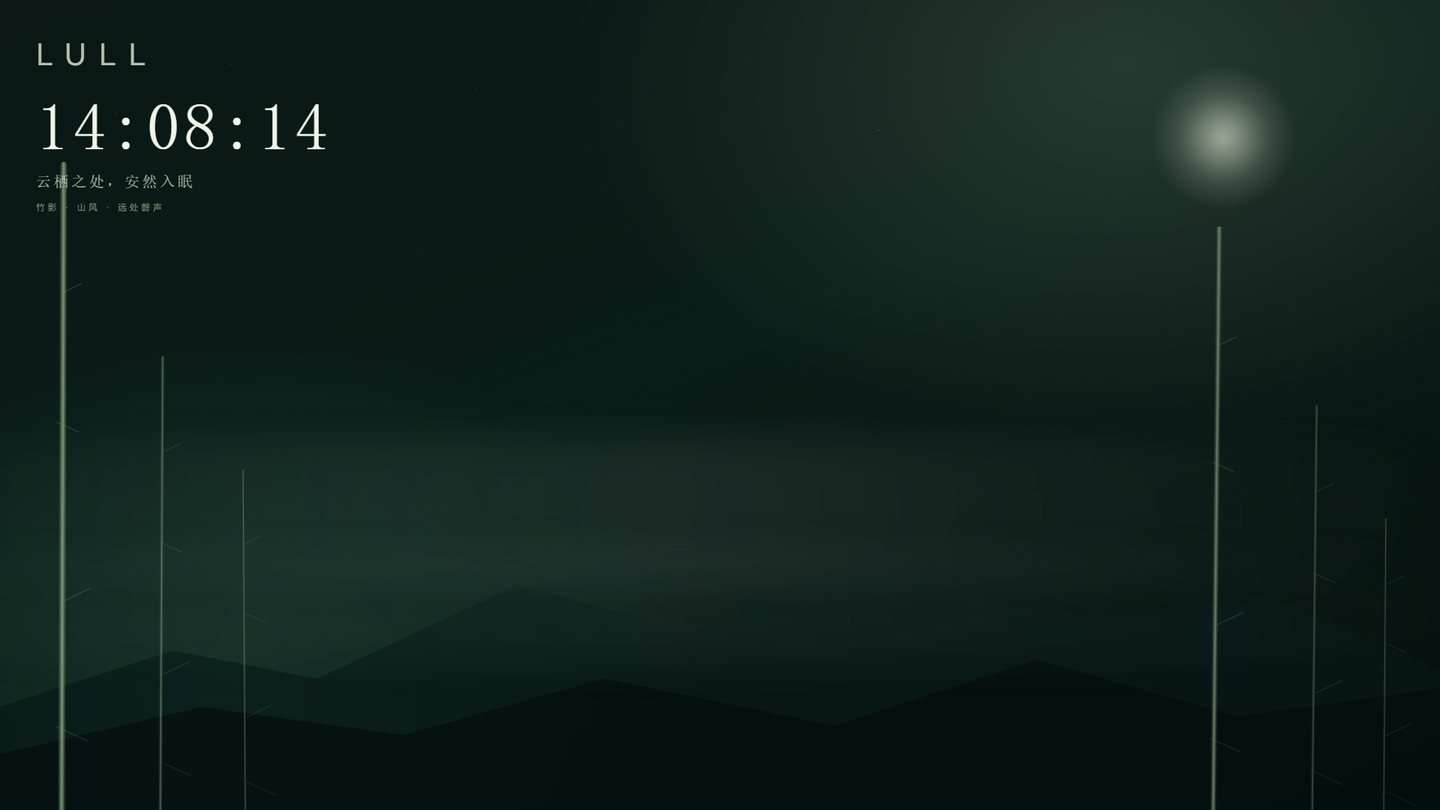
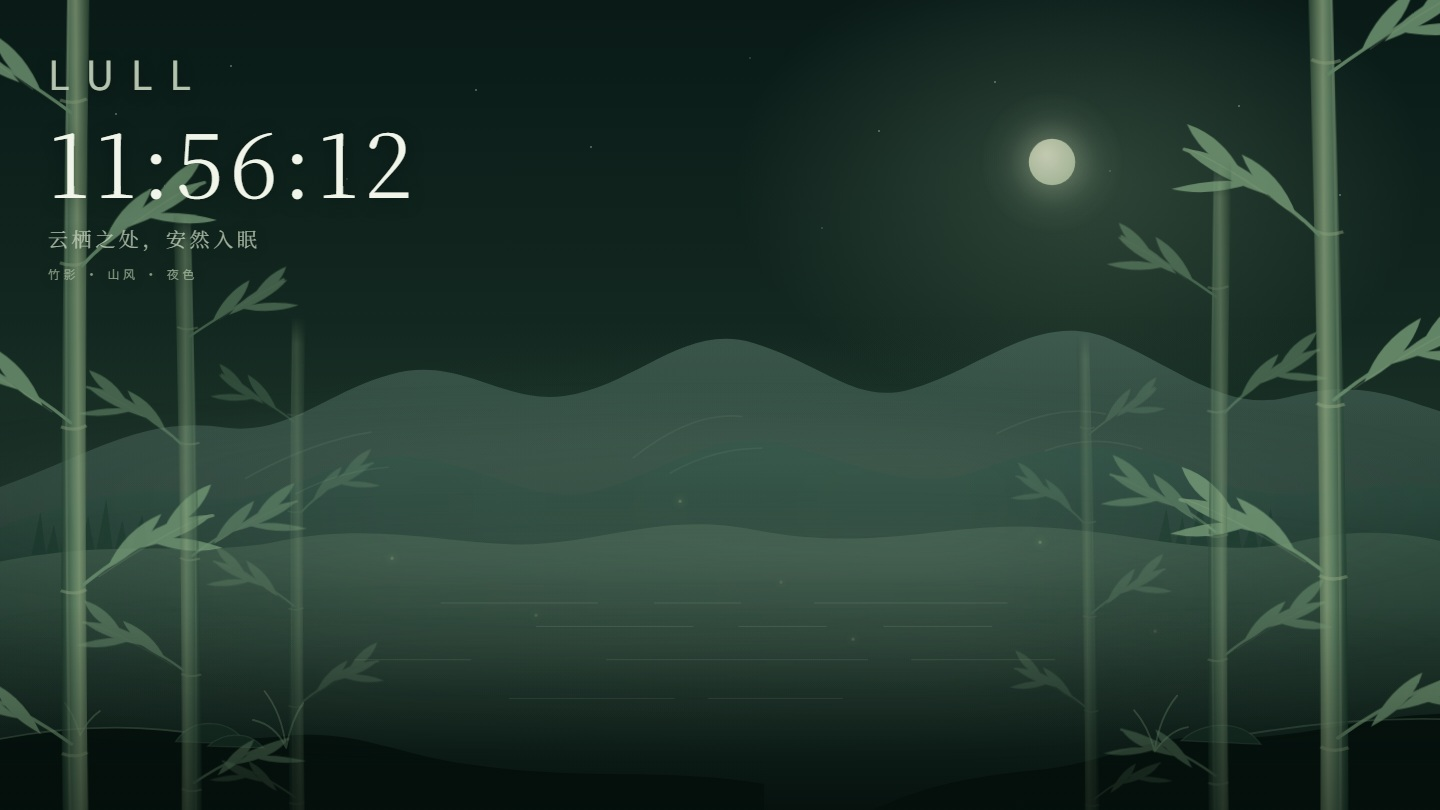
docs: 更新竹影场景预览文档与图片说明
新增预览说明文档，同步更新中英文 README 与网站组件的场景描述
删除废弃的设置窗口截图，统一场景图片为 16:9 比例

diff --git a/website/src/components/site/HomeHero.tsx b/website/src/components/site/HomeHero.tsx
@@ -31,8 +31,8 @@ export default function HomeHero({ version }: { version: string }) {
               <span className="inline-flex items-center gap-1.5" aria-hidden="true"><span className="size-1.5 rounded-full bg-green/70"/><span className="size-1.5 rounded-full bg-green/40"/><span className="size-1.5 rounded-full bg-green/20"/></span>
               <span>YOUR DESKTOP, REIMAGINED</span><span>01 / 03</span>
             </div>
-            <img className="aspect-video w-full object-cover" src={asset("images/scene-bamboo.jpg")} alt="Lull 官方竹影动态壁纸实机画面" width={1440} height={810} fetchPriority="high" />
-            <div className="flex items-center justify-between gap-3 px-4 py-3 text-[0.7rem] text-muted"><span>竹影 · 官方壁纸实机画面</span><span className="font-mono">LULL / SCENE 01</span></div>
+            <img className="aspect-video w-full object-cover" src={asset("images/scene-bamboo.jpg")} alt="竹影场景渲染：月下竹林、远山、水面薄雾与萤火虫" width={1440} height={810} fetchPriority="high" />
+            <div className="flex items-center justify-between gap-3 px-4 py-3 text-[0.7rem] text-muted"><span>竹影 · 当前场景渲染</span><span className="font-mono">LULL / SCENE 01</span></div>
           </div>
           <div className="absolute right-[-1rem] bottom-0 w-[42%] overflow-hidden rounded-card border border-line-strong bg-ink-1 shadow-soft max-[480px]:right-0 max-[480px]:w-[46%]">
             <img className="aspect-[1.7] w-full object-cover" src={asset("images/desktop-world-concept.svg")} alt="漂浮岛屿桌面游戏概念示意" width={1000} height={700} />

diff --git a/website/src/components/site/Preview.tsx b/website/src/components/site/Preview.tsx
@@ -7,8 +7,6 @@ interface PreviewProps {
   alt: string;
   captionLeft: string;
   captionRight: string;
-  /** 设置窗口截图是 16:10，不要按 16:9 裁 */
-  ui?: boolean;
   /** 首屏图给高优先级 */
   priority?: boolean;
   className?: string;
@@ -16,16 +14,16 @@ interface PreviewProps {
 
 /**
  * 桌面截图的相框（原 `.preview` / `.preview__frame`）：
- * 16:9 或 16:10 的容器 + 一层自上而下的薄雾，让截图和页面底色衔接。
+ * 16:9 的容器 + 一层自上而下的薄雾，让场景画面和页面底色衔接。
  */
-export default function Preview({ file, alt, captionLeft, captionRight, ui, priority, className }: PreviewProps) {
+export default function Preview({ file, alt, captionLeft, captionRight, priority, className }: PreviewProps) {
   return (
     <div className={cn("relative", className)}>
       <div
         className={cn(
           "relative overflow-hidden rounded-shell border border-line-strong bg-ink-1",
           "shadow-[var(--shadow-soft)]",
-          ui ? "aspect-[16/10]" : "aspect-video",
+          "aspect-video",
           "after:pointer-events-none after:absolute after:inset-0 after:content-['']",
           "after:bg-[linear-gradient(180deg,transparent_55%,rgb(6_10_9/0.55)_100%)]",
         )}
@@ -35,7 +33,7 @@ export default function Preview({ file, alt, captionLeft, captionRight, ui, prio
           src={asset(file)}
           alt={alt}
           width={1440}
-          height={ui ? 900 : 810}
+          height={810}
           fetchPriority={priority ? "high" : undefined}
           loading={priority ? undefined : "lazy"}
         />

diff --git a/docs/assets/README.md b/docs/assets/README.md
@@ -1,0 +1,18 @@
+# Wallpaper preview / 壁纸预览
+
+`scene-bamboo.jpg` is a direct browser rendering of the bundled **Bamboo 1.2.0** scene, captured on November 15, 2026. It shows the actual scene HTML, CSS, and JavaScript, without a Windows desktop or Settings window around it.
+
+`scene-bamboo.jpg` 由随包的 **竹影 1.2.0** 场景直接渲染截图，更新于 2026 年 11 月 15 日。画面来自场景实际的 HTML、CSS 与 JavaScript，不包含 Windows 桌面外壳或设置窗口。
+
+| Detail / 项目 | Value / 取值 |
+| --- | --- |
+| Source / 源码 | [`extensions/official/bamboo/`](../../extensions/official/bamboo/) |
+| Scene revision / 场景变更 | `41fbf69` — bamboo leaves, landscape details, and fireflies / 竹叶、山水细节与萤火虫 |
+| Build / 构建 | `pnpm extensions:build bamboo` |
+| Capture / 截图 | Chromium, 1440 × 810, DPR 1; scene iframe initialized through the Scene SDK message protocol / 通过 Scene SDK 消息协议初始化场景 iframe |
+| Parameters / 参数 | `mist: 0.5`, viewport layout, mirror mode, animation enabled / 视口布局、复制模式、启用动画 |
+| Website copy / 官网副本 | [`website/public/images/scene-bamboo.jpg`](../../website/public/images/scene-bamboo.jpg) |
+
+When the scene changes, rebuild and capture its rendered output, then update both image copies and their captions together. Keep the files identical; do not substitute a concept illustration for a rendered preview.
+
+场景变化后重新构建、截图，并同步更新文档与官网两份图片及图注。两份图片应保持一致，渲染预览不以概念插画替代。

diff --git a/README.md b/README.md
@@ -20,9 +20,9 @@ For developers, the same desktop is a place to build: create a wallpaper with we
 
 ## Preview
 
-![Bamboo wallpaper preview: a dark green landscape with bamboo, mountains, and a clock](docs/assets/scene-bamboo.jpg)
+![Bamboo wallpaper: moonlit bamboo leaves, layered mountains, mist over water, and fireflies](docs/assets/scene-bamboo.jpg)
 
-*Bamboo, a bundled official scene. This repository preview illustrates its visual style; the scene continues to evolve.*
+*Bamboo 1.2.0, rendered from the current official scene source with the default mist setting. [Preview details](docs/assets/README.md).*
 
 ## What you can do
 

diff --git a/README.zh-CN.md b/README.zh-CN.md
@@ -20,9 +20,9 @@ Lull 是一个开源的 Windows 桌面应用：让动态场景铺在桌面图标
 
 ## 预览
 
-![竹影壁纸预览：深绿色的竹林、远山与时钟](docs/assets/scene-bamboo.jpg)
+![竹影壁纸：月下竹叶、层叠远山、水面薄雾与萤火虫](docs/assets/scene-bamboo.jpg)
 
-*竹影是随应用分发的官方场景。仓库中的这张预览展示其视觉风格，场景仍在持续演进。*
+*竹影 1.2.0，使用当前官方场景源码与默认薄雾参数渲染。[预览说明](docs/assets/README.md)。*
 
 ## 核心能力
 
